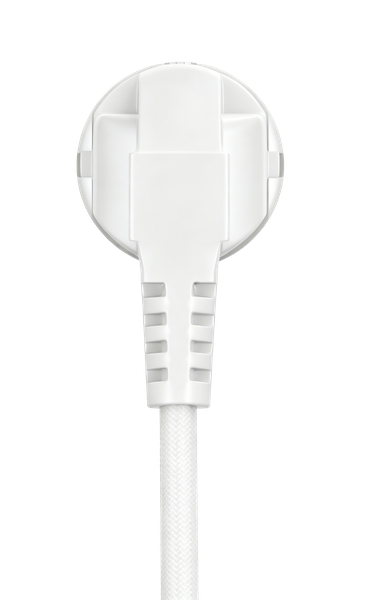
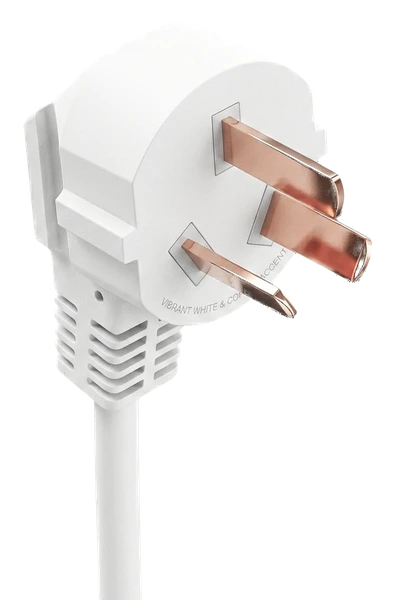
feat: 更换交流电源实物图为三脚插头，调整尺寸120x180，引脚对准铜片尖端

diff --git a/index.html b/index.html
@@ -569,9 +569,9 @@ const Registry = {
       props:{voltage:12} },
 
     { type:'ac_source', name:'交流电源', cat:'电源', icon:'⚡', desc:'AC 220V 实物插头',
-      w:100, h:260,
+      w:120, h:180,
       image:'images/ac_plug.webp',
-      pins:[{id:'p',label:'L',dx:-15,dy:30,lo:-22,ld:0},{id:'n',label:'N',dx:5,dy:30,lo:22,ld:0}],
+      pins:[{id:'p',label:'L',dx:51,dy:-44,lo:0,ld:-18},{id:'n',label:'N',dx:51,dy:-25,lo:0,ld:-18}],
       props:{voltage:220,freq:50} },
 
 